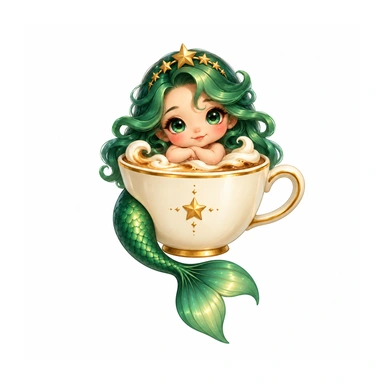
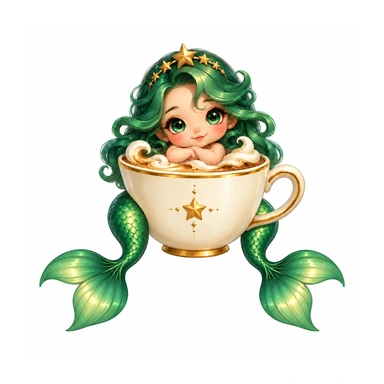
Give all five Emerald Siren forms twin tails

Changed region(s): [[0.0938, 0.4688, 0.9062, 0.9062], [0.6562, 0.3125, 0.6875, 0.3438], [0.25, 0.4375, 0.2812, 0.4688]]

diff --git a/docs/emerald-siren.md b/docs/emerald-siren.md
@@ -14,10 +14,11 @@ Later forms are evolution-only: trail encounters, coffee totals, and riddles can
 
 ## Artwork
 
-Five individual illustrations generated with the built-in image generation tool, using the preceding tier as a style and identity reference, then edited individually for single-tail anatomy. Exact final edit prompts are in `docs/emerald-siren-art-prompts.json`. Shared art direction: a friendly emerald-haired, green-eyed, single-tailed coffee mermaid with a gold star crown, cream foam accents, cream/emerald clothing for the early forms, cozy polished fantasy game illustration (chibi proportions only in early tiers), complete centered silhouette, generous margins, white background, no text, corporate logos, scenery, or frame.
+Five individual illustrations generated with the built-in image generation tool, using the preceding tier as a style and identity reference, then edited individually for twin-tail anatomy. Exact final edit prompts are in `docs/emerald-siren-art-prompts.json`. Shared art direction: a friendly emerald-haired, green-eyed, twin-tailed coffee mermaid with a gold star crown, cream foam accents, cream/emerald clothing for the early forms, cozy polished fantasy game illustration (chibi proportions only in early tiers), complete centered silhouette, generous margins, white background, no text, corporate logos, scenery, or frame.
 
-Stage prompts add: a baby nestled in a star-emblem coffee cup; a small mermaid holding a bean; a taller mermaid with larger foam fins and a floating bean; an adult pearl ocean goddess with an ivory halter, asymmetric champagne drape, and gold-and-pearl waist chains; and an adult final queen with a black-and-emerald jeweled outfit, gold body chains, opera gloves, and a dark emerald cape. Every form has exactly one tail.
+Stage prompts add: a baby nestled in a star-emblem coffee cup; a small mermaid holding a bean; a taller mermaid with larger foam fins and a floating bean; an adult pearl ocean goddess with an ivory halter, asymmetric champagne drape, and gold-and-pearl waist chains; and an adult final queen with a black-and-emerald jeweled outfit, gold body chains, opera gloves, and a dark emerald cape. Every form has exactly two distinct tails, each ending in its own fan fin.
 
 `node scripts/import-siren-art.mjs <originals-directory>` converts the five ID-named PNGs to complete 384×384 WebP assets in `public/siplings`, using the same sizing and margins as the existing individual-art pipeline. It does not crop a character sheet.
 
 Run `npm run check:creatures` to verify images and progression, including every bond boundary and the terminal fifth tier.
+
